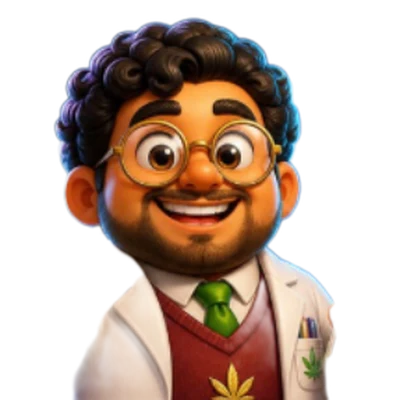
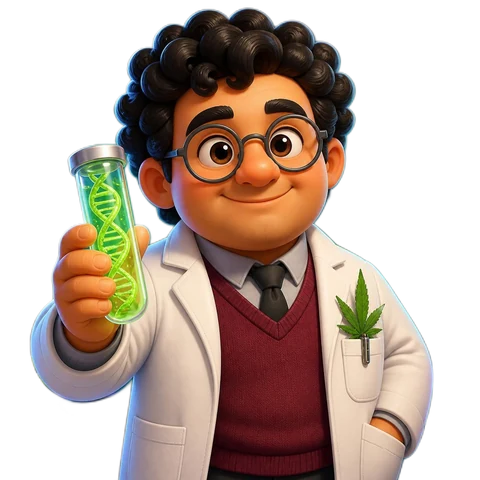
Prueba de arte: Chrono nuevo (semilla con reloj), Rafa recortado de nuevo con su brazo, todos los personajes 3D recortados (también el jardinero), escena del Grow Shop sobre todo el mercado y Tomás sin fondo mientras no tenga escena (?arte=3d)

diff --git a/src/components/npc/rig/NpcV2.tsx b/src/components/npc/rig/NpcV2.tsx
@@ -42,7 +42,9 @@ export const NpcV2: React.FC<{
   variant?: Shopkeeper;
   /** draw the base character even when a hired NFT holds the job (used by the NFT card's own portrait) */
   plain?: boolean;
-}> = ({ kind, text, mood, moodKey, bare, className = '', variant, plain }) => {
+  /** 3D trial: the page already paints the scene behind (e.g. the whole market), so the row draws none */
+  noScene?: boolean;
+}> = ({ kind, text, mood, moodKey, bare, className = '', variant, plain, noScene }) => {
   const [chosen] = useShopkeeper();
   // when a hired NFT holds this character's job, its portrait (a personal variation of the character) replaces the default one
   const hiredRaw = useAssignedStaff(kind as StaffRole);
@@ -67,13 +69,14 @@ export const NpcV2: React.FC<{
   }, [text]);
 
   const talking = shown.length < text.length;
-  // 3D trial: the character's scene fills the whole panel behind the portrait and the bubble: the job's painted scene when there is one,
-  // else the portrait's own backdrop (a hire's portrait is one flat image, so that one is blurred)
+  // 3D trial: the job's painted scene fills the whole panel behind the portrait and the bubble (a hire of a job without one gets
+  // its own portrait blurred); characters without a scene stand on the plain panel
   const who = kind === 'merchant' ? shop : kind;
-  const scene = bare || !art3d ? null
+  const scene = bare || !art3d || noScene ? null
     : sceneArt3d(hired ? kind : who) ? { src: sceneArt3d(hired ? kind : who)!, blur: false }
-    : hired ? { src: staffArt3d(kind, variantOf(hired.staff)), blur: true }
-    : NPC_ART3D.has(who) ? { src: `/npc3d/${who}-bg.webp`, blur: false } : null;
+    : hired ? { src: staffArt3d(kind, variantOf(hired.staff)), blur: true } : null;
+  // the 3D characters are always cut-outs (no box, no backdrop of their own), in panels and in the small cameos alike
+  const cutout = true;
   const Fig = kind === 'merchant' && shop === 'floro' ? Floro : FIGURES[kind];
   const label = hired
     ? `${hired.staff.name} · ${t(ROLE_INFO[kind as StaffRole].label)} ${'★'.repeat(hired.staff.rank)}${hired.working ? '' : t(' · sin pagar')}`
@@ -89,8 +92,8 @@ export const NpcV2: React.FC<{
             : <PremiumBust role={kind as StaffRole} variant={variantOf(hired.staff)} rarity={hired.staff.rarity} seed={hired.staff.seed} mood={mood} talking={talking} viseme={visemeOf(shown[shown.length - 1])} crop />}
         </div>
       ) : art3d && NPC_ART3D.has(kind === 'merchant' ? shop : kind) ? (
-        <div ref={ref} key={`${mood}-${moodKey}`} className={`v2-npc v2-npc--${mood} npc3d ${scene ? 'npc3d--cutout' : ''} shrink-0 ${bare ? 'w-[96px] h-[96px]' : 'w-[140px] h-[140px] sm:w-[164px] sm:h-[164px]'}`}>
-          <Portrait3d id={kind === 'merchant' ? shop : kind} talking={talking} cutout={!!scene} />
+        <div ref={ref} key={`${mood}-${moodKey}`} className={`v2-npc v2-npc--${mood} npc3d ${cutout ? 'npc3d--cutout' : ''} shrink-0 ${bare ? 'w-[96px] h-[96px]' : 'w-[140px] h-[140px] sm:w-[164px] sm:h-[164px]'}`}>
+          <Portrait3d id={kind === 'merchant' ? shop : kind} talking={talking} cutout={cutout} />
         </div>
       ) : (
       <div ref={ref} key={`${mood}-${moodKey}`} className={`v2-npc v2-npc--${mood} shrink-0`}>

diff --git a/src/components/GrowMarketView.tsx b/src/components/GrowMarketView.tsx
@@ -19,6 +19,7 @@ import {
   CATALOG, CATALOG_BY_ID, CATEGORY_LABEL, RARITY_BY_TIER, AssetCategory, CatalogItem, OwnedAsset, repairCostOf, USE,
 } from '../economy/catalog';
 import { t, k, localize } from '../i18n';
+import { sceneArt3d, useNpcArt3d } from './npc/art3d';
 
 type IconType = React.ComponentType<{ className?: string; style?: React.CSSProperties }>;
 const CAT_ICON: Record<AssetCategory, IconType> = {
@@ -159,6 +160,7 @@ const Slot: React.FC<{
 /* ───────────────────────── main view ───────────────────────── */
 
 export const GrowMarketView: React.FC<{ initialCat?: string; onOpenPlanet?: () => void; onOpenBag?: () => void }> = ({ initialCat, onOpenPlanet, onOpenBag }) => {
+  const art3d = useNpcArt3d();
   const {
     assets, resources, equipStats, buyAsset, setAssetEquipped, repairAsset, floraBalance, solBalance, calibrateMeter, care, recycleGarbage, shopPrice, staffMods,
   } = useGame();
@@ -262,13 +264,15 @@ export const GrowMarketView: React.FC<{ initialCat?: string; onOpenPlanet?: () =
   return (
     <div className="mk-stage animate-fade-in">
       <Ambience />
+      {/* 3D trial: the grow shop's painted scene covers the whole market stage */}
+      {art3d && <div className="mk-scene" style={{ backgroundImage: `url(${sceneArt3d('merchant')})` }} aria-hidden />}
       <Awning />
 
       <div className="relative z-10 px-4 sm:px-6 pt-14 pb-6 space-y-5">
         {/* keeper + sign + wallet */}
         <div className="grid gap-4 lg:grid-cols-[minmax(0,1.25fr)_minmax(0,1fr)] items-end">
           <div className="min-w-0">
-            <Merchant text={t(say.text)} mood={say.mood} moodKey={say.key} />
+            <Merchant text={t(say.text)} mood={say.mood} moodKey={say.key} noScene={art3d} />
             <button type="button" onClick={() => setShop(shop === 'flora' ? 'floro' : 'flora')} className="mt-1 ml-1 text-[10.5px] font-mono text-neutral-400 hover:text-white underline underline-offset-2 cursor-pointer">{t('⇄ Cambiar de tendero ({v0})', { v0: shop === 'flora' ? t('Rudy') : t('Flor') })}</button>
           </div>
           <div className="space-y-3">

diff --git a/src/components/npc/art3d.ts b/src/components/npc/art3d.ts
@@ -1,11 +1,11 @@
 import { useEffect, useState } from 'react';
 
 /**
- * Trial of the new 3D-mascot portraits for the base cast (Nico, Flor/Rudy, Tomás, Lucía, Rafa, Marta) and the staff.
+ * Trial of the new 3D-mascot portraits for the base cast (Chrono, Nico, Flor/Rudy, Tomás, Lucía, Rafa, Marta) and the staff.
  * Off by default: `?arte=3d` turns it on for this browser, `?arte=clasico` back off (kept in localStorage).
- * Chrono keeps the classic art: his 3D design (King Bud) is not approved yet.
+ * Chrono is the seed with the pocket watch (King Bud is not approved yet); he has no backdrop, he is always a cut-out.
  */
-export const NPC_ART3D = new Set(['foreman', 'flora', 'floro', 'farmer', 'scientist', 'geneticist', 'budtender']);
+export const NPC_ART3D = new Set(['chrono', 'foreman', 'flora', 'floro', 'farmer', 'scientist', 'geneticist', 'budtender']);
 
 /** wide scenes painted for the panel behind a character (`public/npc3d/<file>-scene.webp`), by job; the rest use their portrait's backdrop */
 const SCENES: Record<string, string> = { foreman: 'foreman', merchant: 'growshop', flora: 'growshop', floro: 'growshop', geneticist: 'geneticist', scientist: 'scientist', budtender: 'budtender' };

diff --git a/src/index.css b/src/index.css
@@ -1095,3 +1095,9 @@ body::before {
 .pl-wave { animation: plWave 6s ease-in-out infinite; }
 @keyframes plWave { 50% { opacity: 0.5; transform: translateX(4px); } }
 @media (prefers-reduced-motion: reduce) { .pl-blink, .pl-wake, .pl-whale, .pl-spout, .pl-ufo, .pl-city, .pl-wave { animation: none; } }
+
+/* 3D trial: the grow shop's painted scene across the top of the market stage (keeper, sign, room), fading into the stage below */
+.mk-scene { position: absolute; top: 0; left: 0; right: 0; height: 680px; z-index: 0; pointer-events: none; background-size: cover; background-position: center 30%;
+  -webkit-mask-image: linear-gradient(180deg, #000 55%, transparent 100%); mask-image: linear-gradient(180deg, #000 55%, transparent 100%); }
+.mk-scene::after { content: ''; position: absolute; inset: 0; background: linear-gradient(180deg, rgba(4, 8, 6, 0.05) 0%, rgba(4, 8, 6, 0.25) 45%, rgba(4, 8, 6, 0.6) 100%); }
+@media (max-width: 1023px) { .mk-scene { height: 820px; } }

diff --git a/src/components/market/Merchant.tsx b/src/components/market/Merchant.tsx
@@ -4,6 +4,6 @@ import { Npc, type Mood } from '../npc/Npc';
 export type { Mood };
 
 /** "Flor", the market keeper (now one of the cast — see npc/Npc.tsx). */
-export const Merchant: React.FC<{ text: string; mood: Mood; moodKey: number }> = ({ text, mood, moodKey }) => (
-  <Npc kind="merchant" text={text} mood={mood} moodKey={moodKey} />
+export const Merchant: React.FC<{ text: string; mood: Mood; moodKey: number; noScene?: boolean }> = ({ text, mood, moodKey, noScene }) => (
+  <Npc kind="merchant" text={text} mood={mood} moodKey={moodKey} noScene={noScene} />
 );

diff --git a/src/components/npc/rig/rig.css b/src/components/npc/rig/rig.css
@@ -113,3 +113,6 @@
 .npc3d--cutout { border-radius: 0; box-shadow: none; }
 .p3d--cutout { overflow: visible; border-radius: 0; }
 .p3d--cutout .p3d-fg { filter: drop-shadow(0 8px 10px rgba(0, 0, 0, 0.55)) drop-shadow(0 0 1px rgba(0, 0, 0, 0.6)); }
+.p3d--chrono .p3d-fg { animation: p3dFloat 3.4s ease-in-out infinite; }
+.p3d--chrono.p3d--talk .p3d-fg { animation: p3dFloat 1.2s ease-in-out infinite; }
+@keyframes p3dFloat { 0%, 100% { transform: translateY(1.5%) rotate(-1.5deg); } 50% { transform: translateY(-3%) rotate(1.5deg); } }

diff --git a/src/components/npc/Portrait3d.tsx b/src/components/npc/Portrait3d.tsx
@@ -6,6 +6,7 @@ import React from 'react';
  */
 type Fx = 'sparkles' | 'glint' | 'neon' | 'bubbles' | 'dna' | 'sun';
 const FX: Record<string, { fx: Fx[]; at?: [number, number] }> = {
+  chrono: { fx: ['sparkles'] },
   foreman: { fx: ['glint'], at: [37, 54] },
   flora: { fx: ['neon'] },
   floro: { fx: ['neon'] },

diff --git a/src/components/npc/Npc.tsx b/src/components/npc/Npc.tsx
@@ -62,4 +62,5 @@ export const Npc: React.FC<{
   /** figure only, no speech bubble (small corner cameo) */
   bare?: boolean;
   className?: string;
+  noScene?: boolean;
 }> = (props) => <NpcV2 {...props} />;
